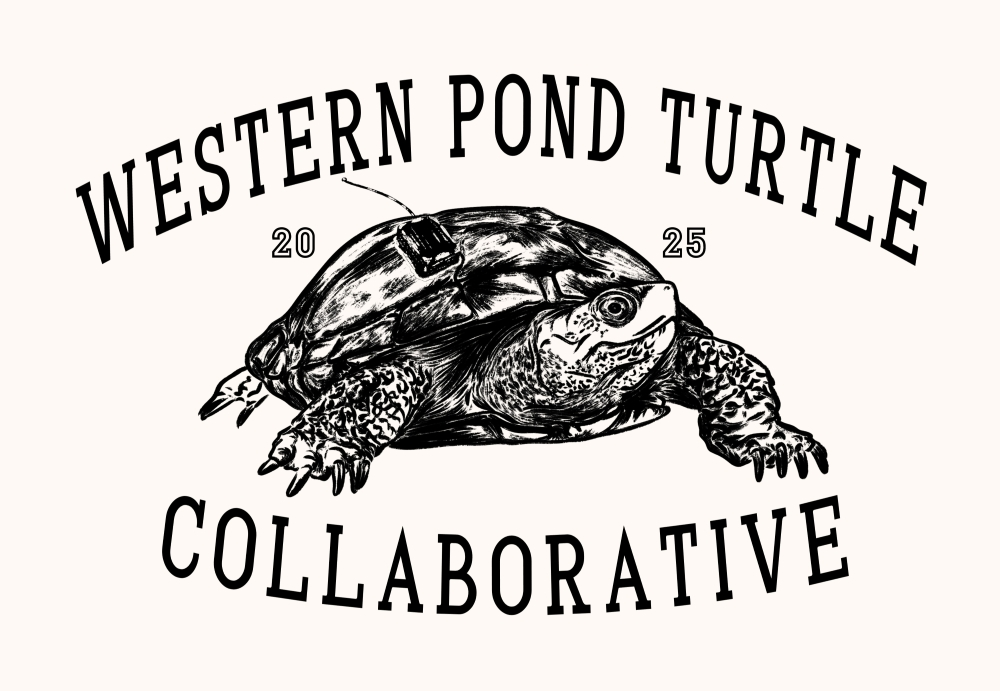
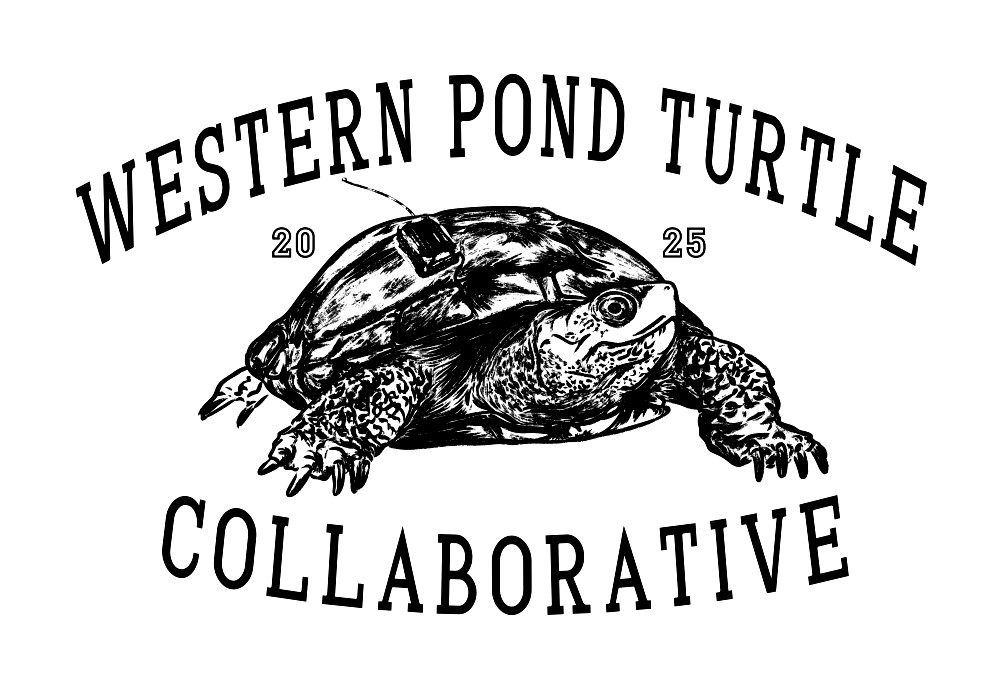
start of wpt redesign

Changed region(s): [[0.217, 0.3039, 0.806, 0.699], [0.682, 0.3343, 0.713, 0.3647], [0.279, 0.3343, 0.31, 0.3647]]

diff --git a/turtle.html b/turtle.html
@@ -43,40 +43,48 @@
 </nav>
 
 
-<div class="container py-4">
+<div class="container turtle-container p-5">
   <button class="btn btn-link back-btn" onclick="history.back()">
   ← Back
 </button>
 
 <div class="row py-3">
     <div class="col-12 text-center">
-      <h2>Western Pond Turtle Collaborative</h2>
+      <h1>Western Pond Turtle Collaborative</h1>
       <p class="h4">Creative Media</p>
     </div>
-    <dl class="col-12">
-    <dt>Overview&#58;</dt>
-    <dd>
+
+    <dl class="row gy-4 pb-3">
+      <dt class="col-sm-3 h4">Overview&#58;</dt>
+      <dd class="col-sm-9 px-4">
         <p>This project documents my work with the Western Pond Turtle Collaborative, where I supported conservation efforts through visual communication. I created digital illustrations and merchandise designs to help share the project's mission, and assisted as a photographer during field days, capturing on-site research and conservation efforts.</p>
-    </dd>
-    <dt>Western Pond Turtle Collaborative&#58;</dt>
-    <dd>
+      </dd>
+       <dt class="col-sm-3 h4">WPT Collaborative&#58;</dt>
+      <dd class="col-sm-9 px-4">
         <p>The Western Pond Turtle Collaborative is led by various California-based organizations dedicated to protecting Western Pond turtles through research. Partners include: East Bay Regional Park District, Oakland Zoo, SF Zoo, Alameda County Resource Conservation District, Swaim Biological, Sonoma State University, Dominican University, and New Mexico State University.</p>
-    </dd>
+      </dd>
     </dl>
 </div>
 
-    <div class="row align-items-center g-3 my-4">
-        <div class="col-12 mb-2">
-            <h3>Merchandise Design&#58;</h3>
-            <p>In addition to designs, I also helped create the website used to sell the merch.</p>
+    
+        <div class="text-center px-4 mb-4">
+            <h2>Merchandise Design&#58;</h2>
+            <p>Our goal from the beginning was to create a variety of items that would interest a range of people. The shirts are classic, the hats are cute and silly, and the stickers are artistic. At this stage of creation for the collaborative, aim was to reach, and not cohesiveness. In addition to designs, I also helped create the website used to sell the merch.</p>
         </div>
-        <div class="col-12">
-            <h4>Shirts&#58;</h4>
+        <div class="mt-4">
+            <h3>Shirts&#58;</h3>
         </div>
-        <div class="col-md-6">
-        <img src="assets/turtle/turtle-design.jpg" class="img-fluid w-100" alt="shirt design- wpt with tracker">
+        <div class="row align-items-center g-2 g-md-4 my-3 p-md-4">
+        <div class="col-md-6 px-5 shirt-sketch">
+        <img src="assets/turtle/wpt-hatch.png" class="img-fluid" alt="shirt design- turtle hatchling illustration">
         </div>
-        <div class="col-md-6">
+        <div class="col-md-6  px-5 shirt-sketch">
+        <img src="assets/turtle/wpt-track.png" class="img-fluid" alt="shirt design- turtle with tracker illustration">
+        </div>
+        <div class="col-12 px-sm-5">
+        <img src="assets/turtle/turtle-design.jpg" class="img-fluid px-5" alt="shirt design- turtle with tracker illustration with wording">
+        </div>
+        <div class="col-12 py-3 px-4">
         <div id="wptShirts" class="carousel slide carousel-dark">
             <div class="carousel-inner">
                 <div class="carousel-item active">
@@ -98,21 +106,24 @@
         </div>
     </div>
     
-    <div class="row align-items-center g-3 my-5">
-        <div class="col-12">
-        <h4>Hats&#58;</h4>
+        <div class="py-2">
+        <h3>Hats&#58;</h3>
         </div>
-        <div class="col-md-6 p-4">
-        <img src="assets/turtle/hat-design.PNG" class="img-fluid w-100" alt="turtle holding fish and net illustration">
+        <div class="row align-items-center g-2 g-md-4 my-3 p-md-4">
+        <div class="col-md-6 px-4">
+        <img src="assets/turtle/doodle-turtle.JPG" class="img-fluid" alt="turtle holding fish and net illustration">
         </div>
-        <div class="col-md-6">
+        <div class="col-md-6 px-5">
+        <img src="assets/turtle/hat-design.PNG" class="img-fluid" alt="turtle holding fish and net illustration">
+        </div>
+        <div class="col-12 py-2 px-4">
             <div id="wptHats" class="carousel slide carousel-dark">
                 <div class="carousel-inner">
-                    <div class="carousel-item active">
-                    <img src="assets/turtle/turtle-hat.jpg" class="img-fluid w-100" alt="tan baseball hat">
+                    <div class="carousel-item active px-5">
+                    <img src="assets/turtle/turtle-hat.jpg" class="img-fluid" alt="tan baseball hat">
                     </div>
-                    <div class="carousel-item">
-            <img src="assets/turtle/turtle-trucker.jpg" class="img-fluid w-100" alt="light grey trucker hat">
+                    <div class="carousel-item px-5">
+            <img src="assets/turtle/turtle-trucker.jpg" class="img-fluid" alt="light grey trucker hat">
                     </div>
                 </div>
                 <button class="carousel-control-prev" type="button" data-bs-target="#wptHats" data-bs-slide="prev">
@@ -127,20 +138,24 @@
         </div>
     </div>
 
-    <div class="row align-items-center g-3 my-5">
-    <div class="col-12">
-      <h4>Print&#58;</h4>
+    
+    <div>
+      <h3>Print&#58;</h3>
     </div>
-    <div class="col-md-6 py-4">
+    <div class="row align-items-center g-3 py-4 my-5">
+    <div class="col-md-6 py-4 px-5">
+    <img src="assets/turtle/wpt-bwposter.jpg" class="img-fluid w-100" alt="art nouveau style turtle poster/print design">
+    </div>
+    <div class="col-md-6 py-4 px-5">
     <img src="assets/turtle/print.jpg" class="img-fluid w-100" alt="art nouveau style turtle poster/print design">
     </div>
-    <div class="col-md-6 p-4">
+    <div class="col-12 p-4 px-4">
     <img src="assets/turtle/turtle-sticker.jpg" class="img-fluid w-100" alt="print design on sticker mock-up">
     </div>
     </div>
 
     <div class="py-5">
-        <h3 class="mb-3">Photography&#58;</h3>
+        <h2 class="mb-4">Photography&#58;</h2>
     <div id="wptPhotos" class="carousel slide">
         <div class="carousel-inner">
             <div class="carousel-item active">

diff --git a/styles.css b/styles.css
@@ -61,6 +61,39 @@ button.back-btn:hover{
   text-decoration: underline;
   color: var(--coral);
 }
+#backToTop {
+  position: fixed;
+  bottom: 124px;
+  right: 64px;
+  width: 50px;
+  height: 50px;
+  border-radius: 50%;
+  border: none;
+  background: var(--coral);
+  color: #fff;
+  font-size: 2rem;
+  cursor: pointer;
+
+  opacity: 0;
+  pointer-events: none;
+  transition:
+    transform 0.25s ease,
+    box-shadow 0.25s ease;
+  z-index: 1000;
+}
+#backToTop:hover {
+  transform: translateY(-4px);
+  box-shadow: 1px 2px 3px #02082c98;
+}
+#backToTop.show {
+  opacity: 1;
+  pointer-events: auto;
+}
+@media (prefers-reduced-motion: reduce) {
+  html {
+    scroll-behavior: auto;
+  }
+}
 /*homepage*/
 body.index-body {
   background: var(--wine);
@@ -514,11 +547,11 @@ p.about-text {
 
 
 /*logo*/
-body.logo-body, body.turtle-body {
-  background-color: #fff;
+body.logo-body {
+  background-color: #d9e0e1;
 }
-body.logo-body footer, body.turtle-body footer {
-  background-color: #fff;
+body.logo-body footer {
+  background-color: #d9e0e1;
 }
 div.logo-container {
   max-width: 1000px;
@@ -561,7 +594,7 @@ img.draft-item {
   border-radius: 1em;
 }
 .title-block img {
-  border-radius: 1.5em;
+  border-radius: 0.9em;
 }
 .letter-back {
   background: #1F2566;
@@ -574,12 +607,21 @@ img.draft-item {
 }
 .final-15-box {
   border: 3px solid #1F2566;
+  background-color: #fff;
   border-radius: 1em;
 }
 .final-15-box .divider {
   background-color: #1F2566;
   width: 100px;
 }
+/*turtle*/
+body.turtle-body {
+  background-color: #fff;
+}
+div.turtle-container {
+  max-width: 1000px;
+}
+
 /*nocturnal*/
 body.nocturnal-body {
     background-color: var(--navy);

diff --git a/15logo.html b/15logo.html
@@ -172,11 +172,16 @@
     </div>
 </div>
   </div>
+  <button id="backToTop" aria-label="Back to top">
+  &#x21e7;
+</button>
 <footer class="text-center py-3">
       <img src="assets/meicon.png" alt="my face icon" style="height: 30px;">
       <span class="ms-2">Website by Isabelle Ponts</span>
       <p class="small text-muted">Site in progress</p>
 </footer>
+<script src="mainscript.js"></script>
+
 <!-- Bootstrap 5.3 JS -->
 <script src="https://cdn.jsdelivr.net/npm/bootstrap@5.3.3/dist/js/bootstrap.bundle.min.js"></script>
 </body>

diff --git a/mainscript.js b/mainscript.js
@@ -1,0 +1,19 @@
+const backToTop = document.getElementById('backToTop');
+
+  window.addEventListener('scroll', () => {
+    const scrollPosition = window.scrollY + window.innerHeight;
+    const pageHeight = document.documentElement.scrollHeight;
+
+    if (scrollPosition >= pageHeight - 200) {
+      backToTop.classList.add('show');
+    } else {
+      backToTop.classList.remove('show');
+    }
+  });
+
+  backToTop.addEventListener('click', () => {
+    window.scrollTo({
+      top: 0,
+      behavior: 'smooth'
+    });
+  });
